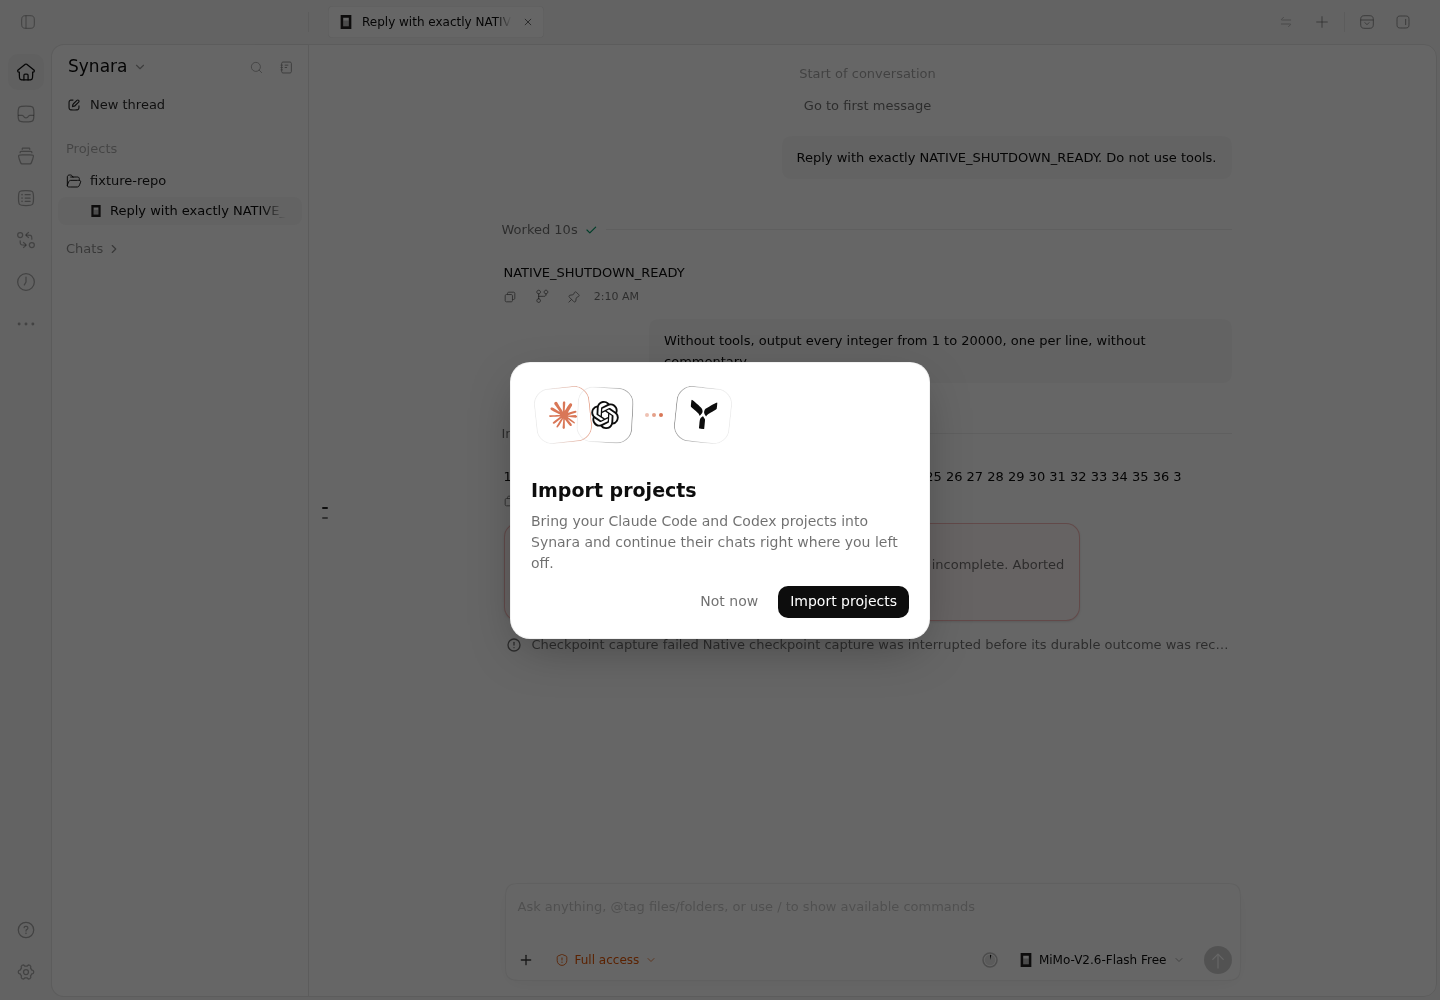
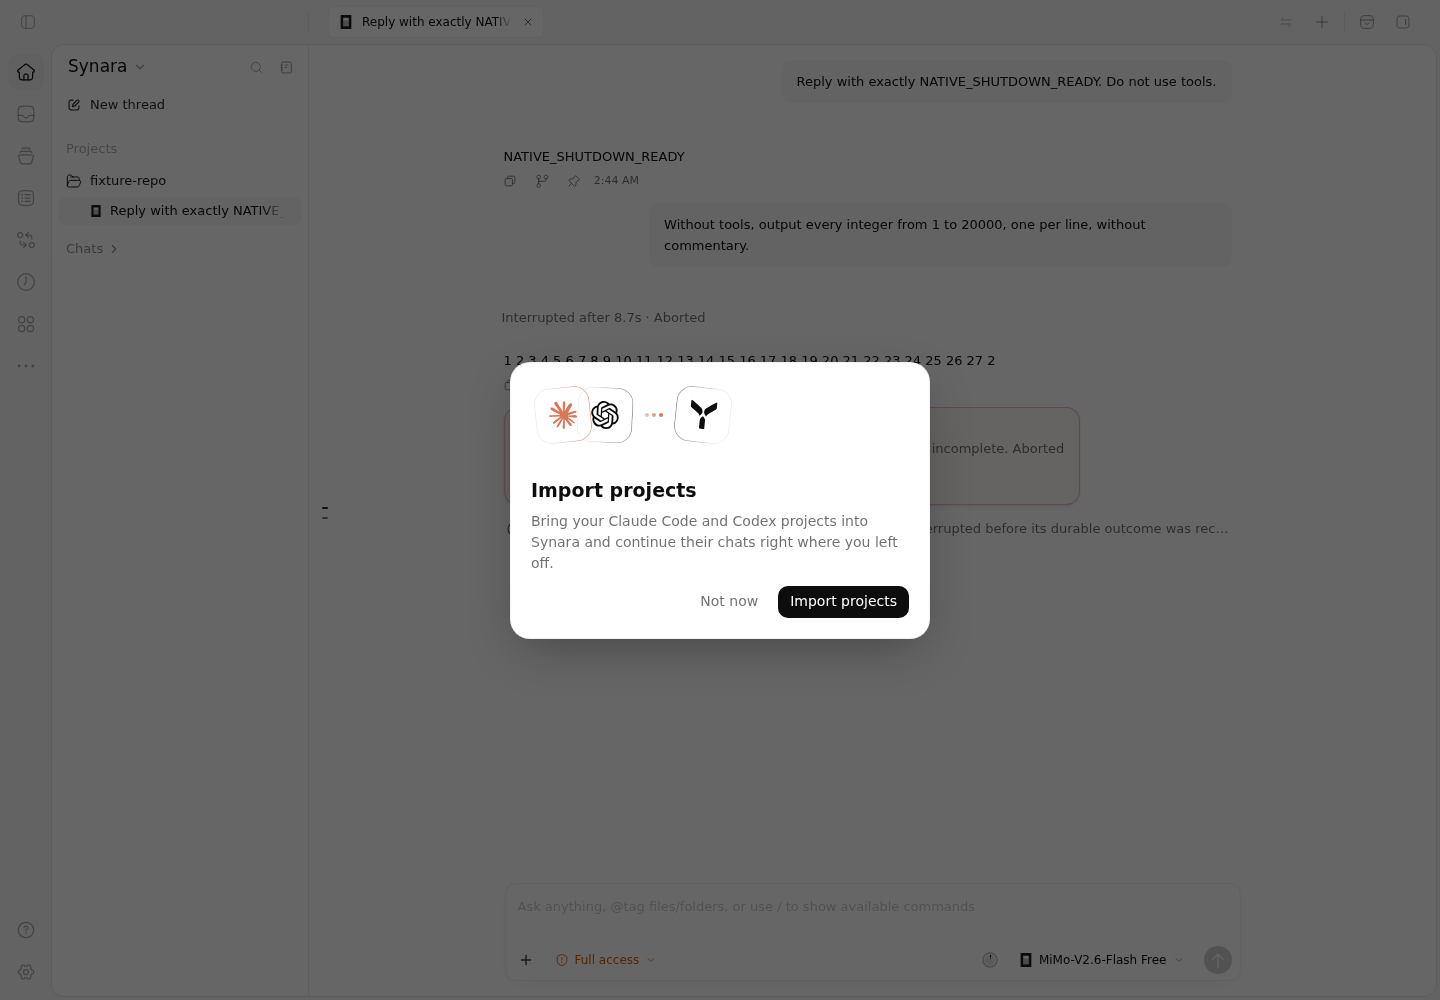
Record real native shutdown and restart against current main

diff --git a/docs/verification/shutdown-native.md b/docs/verification/shutdown-native.md
@@ -13,3 +13,5 @@ OPENCODE_LIVE_BINARY=/absolute/path/to/opencode CHROMIUM_EXECUTABLE_PATH=/absolu
 ```
 
 This test explicitly attaches an external native CLI owned and cleaned by the test runner. It does not establish production ownership of native descendant processes, authenticated paid-provider acceptance, or packaged desktop prepareQuit behavior. Those broader #985 qualifications remain separate. No native process-cleanup receipt is inferred from the screenshots.
+
+The production web and CLI were rebuilt after integrating main `52f06318fdb3c0b4b310a8d55d0083cba0bde1a0`. The portable native shutdown/restart runner passed again on the combined source; the report, two screenshots, and raw output now belong to that rerun. The new transcript UI and actual SQLite settlement/recovery were exercised. The build used a scratch output directory to exclude concurrent workspace synchronization staging files from asset compression, then bundled that actual output into the CLI.
